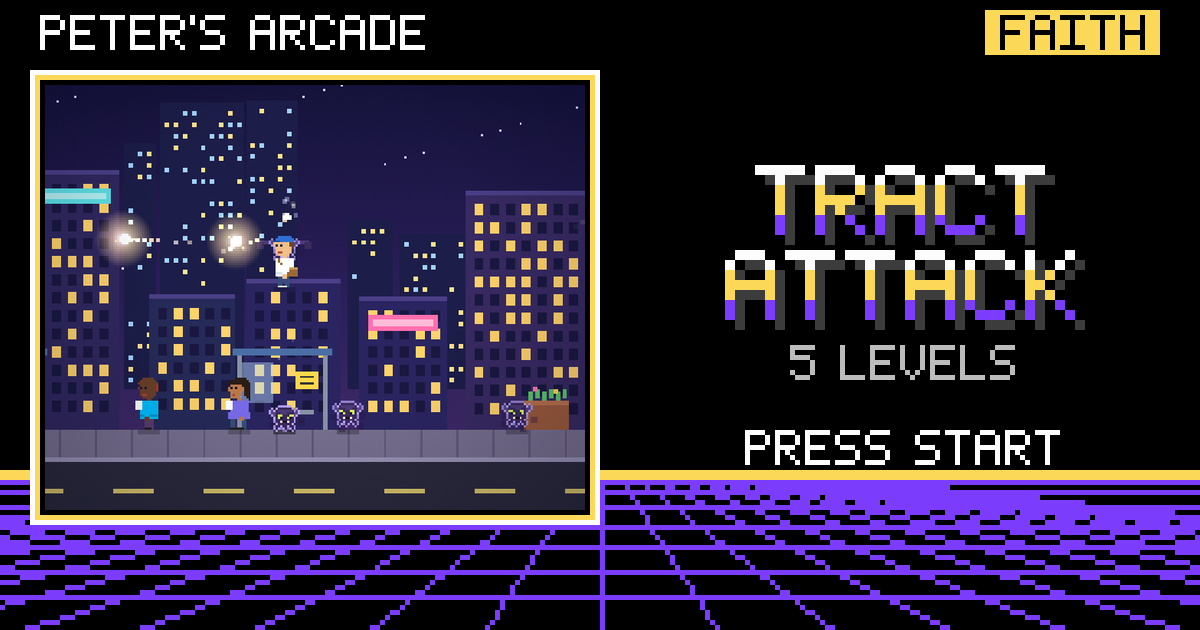
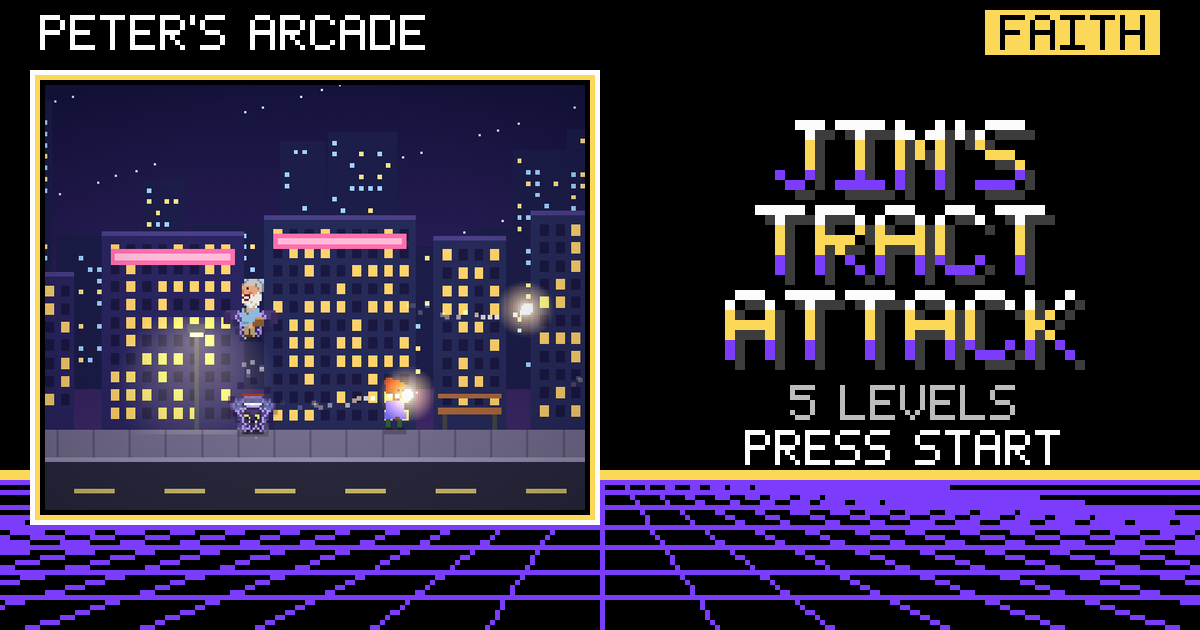
Jim's Tract Attack: Jim hero + portrait, rename, de-stacked bubbles/labels, top-down prayer aim-assist, new cover (sw v2)

diff --git a/index.html b/index.html
@@ -1,7 +1,7 @@
 <!DOCTYPE html><html lang="en"><head><meta charset="utf-8"><meta name="viewport" content="width=device-width,initial-scale=1,maximum-scale=1,user-scalable=no,viewport-fit=cover">
-<title>Tract Attack</title><!--og--><meta name="description" content="Hand out Bible tracts, send glowing prayers that turn little gloom goblins into light, and set gloomy people free. 5 levels of side-scrolling and top-down action from Book of Heaven Studios."><meta property="og:type" content="website"><meta property="og:site_name" content="Peter&#x27;s Arcade"><meta property="og:title" content="Tract Attack"><meta property="og:description" content="Hand out Bible tracts, send glowing prayers that turn little gloom goblins into light, and set gloomy people free. 5 levels of side-scrolling and top-down action from Book of Heaven Studios."><meta property="og:url" content="https://ploug76.github.io/tract-attack/"><meta property="og:image" content="https://ploug76.github.io/tract-attack/cover.png"><meta property="og:image:secure_url" content="https://ploug76.github.io/tract-attack/cover.png"><meta property="og:image:type" content="image/png"><meta property="og:image:width" content="1200"><meta property="og:image:height" content="630"><meta property="og:image:alt" content="Tract Attack game cover"><meta name="twitter:card" content="summary_large_image"><meta name="twitter:title" content="Tract Attack"><meta name="twitter:description" content="Hand out Bible tracts, send glowing prayers that turn little gloom goblins into light, and set gloomy people free. 5 levels of side-scrolling and top-down action from Book of Heaven Studios."><meta name="twitter:image" content="https://ploug76.github.io/tract-attack/cover.png"><!--/og-->
+<title>Jim&#x27;s Tract Attack</title><!--og--><meta name="description" content="Help Jim hand out Bible tracts, send glowing prayers that turn little gloom goblins into light, and set gloomy people free. 5 levels of side-scrolling and top-down action from Book of Heaven Studios."><meta property="og:type" content="website"><meta property="og:site_name" content="Peter&#x27;s Arcade"><meta property="og:title" content="Jim&#x27;s Tract Attack"><meta property="og:description" content="Help Jim hand out Bible tracts, send glowing prayers that turn little gloom goblins into light, and set gloomy people free. 5 levels of side-scrolling and top-down action from Book of Heaven Studios."><meta property="og:url" content="https://ploug76.github.io/tract-attack/"><meta property="og:image" content="https://ploug76.github.io/tract-attack/cover.png"><meta property="og:image:secure_url" content="https://ploug76.github.io/tract-attack/cover.png"><meta property="og:image:type" content="image/png"><meta property="og:image:width" content="1200"><meta property="og:image:height" content="630"><meta property="og:image:alt" content="Jim&#x27;s Tract Attack game cover with pixel-art Jim"><meta name="twitter:card" content="summary_large_image"><meta name="twitter:title" content="Jim&#x27;s Tract Attack"><meta name="twitter:description" content="Help Jim hand out Bible tracts, send glowing prayers that turn little gloom goblins into light, and set gloomy people free. 5 levels of side-scrolling and top-down action from Book of Heaven Studios."><meta name="twitter:image" content="https://ploug76.github.io/tract-attack/cover.png"><!--/og-->
 <meta name="theme-color" content="#120c2a"><link rel="manifest" href="manifest.json"><link rel="icon" href="icon-192.png"><link rel="apple-touch-icon" href="icon-192.png">
-<meta name="apple-mobile-web-app-capable" content="yes"><meta name="mobile-web-app-capable" content="yes"><meta name="apple-mobile-web-app-status-bar-style" content="black-translucent"><meta name="apple-mobile-web-app-title" content="Tract Attack">
+<meta name="apple-mobile-web-app-capable" content="yes"><meta name="mobile-web-app-capable" content="yes"><meta name="apple-mobile-web-app-status-bar-style" content="black-translucent"><meta name="apple-mobile-web-app-title" content="Jim&#x27;s Tracts">
 <style>html,body{margin:0;height:100%;overflow:hidden;background:#120c2a;touch-action:none;-webkit-user-select:none;user-select:none;-webkit-touch-callout:none;overscroll-behavior:none}
 canvas{position:fixed;left:0;top:0;display:block;touch-action:none;image-rendering:pixelated}#sp{position:fixed;visibility:hidden;pointer-events:none;padding:env(safe-area-inset-top) env(safe-area-inset-right) env(safe-area-inset-bottom) env(safe-area-inset-left)}</style><!--sample--><script>(()=>{try{const R=location.pathname.split('/')[1]||'',K='pa_sample:'+R,q=new URLSearchParams(location.search),v=q.get('sample');
 if(v==='0'||(!v&&/\/peters-arcade\//.test(document.referrer)))sessionStorage.removeItem(K);
@@ -10,7 +10,7 @@ const s=sessionStorage.getItem(K);window.__SAMPLE=s||null;if(!s)return;
 document.querySelectorAll('link[rel=manifest]').forEach(l=>l.remove());
 if('serviceWorker' in navigator){try{navigator.serviceWorker.register=()=>new Promise(()=>{})}catch(e){}}
 addEventListener('beforeinstallprompt',e=>{e.preventDefault();e.stopImmediatePropagation()},true);window.__ACS=[];['AudioContext','webkitAudioContext'].forEach(n=>{const O=window[n];if(!O)return;const W=function(...a){const c=new O(...a);window.__ACS.push(c);return c};W.prototype=O.prototype;try{Object.setPrototypeOf(W,O)}catch(e){}window[n]=W})}catch(e){}})()</script><!--/sample--></head><body>
-<canvas id="cv" aria-label="Tract Attack game"></canvas><div id="sp"></div>
+<canvas id="cv" aria-label="Jim&#x27;s Tract Attack game"></canvas><div id="sp"></div>
 <script>window.addEventListener('error',e=>{(window.__ERR=window.__ERR||[]).push(String(e.message))});
 // ===================== Tract Attack — core (canvas, layout, utils, audio) =====================
 'use strict';
@@ -100,46 +100,60 @@ function drawMap(map,pal,x,y,flip=false,alpha=1){const w=map[0].length;if(alpha!
   if(alpha!==1)o.globalAlpha=1}
 
 /* ============================================================================================
-   HERO SPRITE — PLACEHOLDER (swap me!)
-   Peter will send a photo. To swap the hero, replace HERO below (see README.md):
-   - head:  10x10 side view facing RIGHT.  headF: 10x10 front view.  headB: back of head.
-   - Each letter is a colour from HERO.pal ('.' = see-through). Body colours are shirt/shirt2/pants/shoes/bag.
-   Keep the 10x10 size and the hero will animate, flip and throw exactly the same.
+   HERO SPRITE — JIM (Jim's Tract Attack)
+   Drawn pixel likeness matching Jim in his other games (Jedi Jim, Jim's Bible Challenge): an older man with
+   slicked-back grey hair, a full white-grey beard, a big smile and rosy cheeks. Colours sampled from the Jedi Jim
+   pixel portrait (jim.png, J Woo pix method). No photo is used or shipped.
+   - head: 12x14 side view facing RIGHT.  headF: 12x14 front view.  headB: back of head. '.' = see-through.
+   - JIM_PORTRAIT (title/intro/win cards) = head crop of the Jedi Jim pixel portrait, 52x52 pixel art (base64 PNG).
+   - Street-ministry outfit: light chambray shirt, khaki pants, brown shoes, leather satchel of tracts.
    ============================================================================================ */
-const HERO={name:'Pete',
- head:['..cccccc..',
-       '.cccccccc.',
-       '.ccccccbbb',
-       '.hhsssssss',
-       '.hhssseses',
-       '.hsssssss.',
-       '..sssssss.',
-       '..ssssmms.',
-       '...sssss..',
-       '....ss....'],
- headF:['..cccccc..',
-        '.cccccccc.',
-        '.cbbbbbbc.',
-        '.hssssssh.',
-        '.seessees.',
-        '.ssssssss.',
-        '.ssssssss.',
-        '..ssmmss..',
-        '...ssss...',
-        '....ss....'],
- headB:['..cccccc..',
-        '.cccccccc.',
-        '.cccccccc.',
-        '.hhhhhhhh.',
-        '.hhhhhhhh.',
-        '.hhhhhhhh.',
-        '.shhhhhhs.',
-        '..ssssss..',
-        '...ssss...',
-        '....ss....'],
- pal:{c:'#2f6fd6',b:'#1d4a99',h:'#6b4423',s:'#f0c08a',e:'#1b1530',m:'#b4513c'},
- shirt:'#ffffff',shirt2:'#d6e2f0',pants:'#34507a',shoes:'#f4f4f4',bag:'#9a6a35',skin:'#f0c08a'};
-
+const HERO={name:'Jim',
+ head:['..gGGGGg....',
+       '.gGGGGGGg...',
+       'gGGgGGGGGg..',
+       'gGGgssssss..',
+       'gGgssssEss..',
+       'gGsssssssn..',
+       '.gwssrrssn..',
+       '.wwwswmmmw..',
+       '.wwwwwmttm..',
+       '.wwwwwwmmw..',
+       '..wwwWwwww..',
+       '..wWwwwwW...',
+       '...wWwwW....',
+       '....sss.....'],
+ headF:['...gGGGGg...',
+        '..gGGGGGGg..',
+        '.gGgGGgGGgg.',
+        '.gssssssssg.',
+        '.sEEssssEEs.',
+        '.srrsssssrr.',
+        '.wsssnnsssw.',
+        '.wwwmmmmwww.',
+        '.wwmttttmww.',
+        '.wwwmmmmwww.',
+        '..wwwwwwww..',
+        '..wWwwwwWw..',
+        '...wWwwWw...',
+        '....ssss....'],
+ headB:['...gGGGGg...',
+        '..gGGGGGGg..',
+        '.gGGgGGgGGg.',
+        '.gGGGgGGGGg.',
+        '.gGgGGGGgGg.',
+        '.gGGGGgGGGg.',
+        '.gGGGGGGGGg.',
+        '.wgGGGGGGgw.',
+        '..wggggggw..',
+        '..wwssssww..',
+        '...wssssw...',
+        '............',
+        '............',
+        '....ssss....'],
+ pal:{g:'#8d8a86',G:'#c9c6c0',s:'#e8a57c',r:'#e0705e',E:'#3a2418',n:'#c9805a',w:'#ece9e3',W:'#bdb8b0',m:'#6a2a22',t:'#ffffff'},
+ shirt:'#8fb8de',shirt2:'#6f97bf',pants:'#b49a6a',shoes:'#5a3820',bag:'#8b5a2b',skin:'#e8a57c'};
[1 lines of base64/hex data omitted]
 // generic head maps for passers-by (h hair, s skin, e eye, m mouth)
 const HEADS={
  short:{s:['..hhhhh...','.hhhhhhhh.','.hhhhhhhhh','.hhhsssss.','.hhssseses','.hsssssss.','..sssssss.','..ssssmms.','...sssss..','....ss....'],
@@ -169,14 +183,14 @@ function drawPerson(x,y,L,face,ph,act,dir){const kid=L.kid,leg=kid?3:5,tor=kid?6
   // torso (dress = flared)
   const ty=y-leg-tor;if(L.dress&&!L.hero){px(x-4,ty,8,tor,L.shirt);px(x-5,ty+tor-3,10,3,L.shirt)}else{px(x-4,ty,8,tor,L.shirt);px(x-4,ty+tor-2,8,1,L.shirt2)}
   if(L.hero){if(!front){o.fillStyle=HERO.bag;for(let i=0;i<tor;i++)o.fillRect(x+(face>0?2-i*0.7:-3+i*0.7)|0,ty+i,1,1);px(x-(face>0?6:-2),ty+tor-4,4,4,HERO.bag);px(x-(face>0?6:-2),ty+tor-4,4,1,'#c99a5a')}
-    else{px(x-1,ty+1,2,5,'#e8c34a');px(x-2,ty+2,4,1,'#e8c34a')}} // little gold cross on the tee (front)
+    else{o.fillStyle=HERO.bag;for(let i=0;i<tor;i++)o.fillRect(x-3+i,ty+i,1,1);px(x+2,ty+tor-3,4,4,HERO.bag);px(x+2,ty+tor-3,4,1,'#c99a5a');px(x-1,ty+2,1,1,'#fff');px(x-1,ty+5,1,1,'#fff')}} // satchel strap + shirt buttons (front)
   // arms
   if(front){px(x-6,ty+1+(sw>0?1:0),2,tor-2,L.shirt);px(x+4,ty+1+(sw<0?1:0),2,tor-2,L.shirt);px(x-6,ty+tor-1,2,2,L.skin);px(x+4,ty+tor-1,2,2,L.skin)}
   else if(act>0){px(x+(face>0?3:-9),ty+1,6,2,L.shirt);px(x+(face>0?9:-11),ty+1,2,2,L.skin);if(L.hero)px(x+(face>0?9:-12),ty-2,3,4,'#fff')}
   else{px(x-1-sw*face*0.6,ty+1,2,tor-2,L.shirt);px(x-1-sw*face*0.6,ty+tor-1,2,2,L.skin)}
   // head
   const hx=x-5,hy=top;
-  if(L.hero){const m=dir==='u'?HERO.headB:dir==='d'?HERO.headF:HERO.head;drawMap(m,HERO.pal,hx,hy,!front&&face<0)}
+  if(L.hero){const m=dir==='u'?HERO.headB:dir==='d'?HERO.headF:HERO.head,mw=m[0].length,mh=m.length;drawMap(m,HERO.pal,x-Math.floor(mw/2)+(front?0:(face>0?0:0)),y-leg-tor-mh+1,!front&&face<0)}
   else{const H=HEADS[L.style]||HEADS.short;let m=dir==='d'?H.f:H.s;if(dir==='u')m=H.f.map((r,i)=>i<8?r.replace(/[sem]/g,'h'):r);drawMap(m,headPal(L),hx,hy,!front&&face<0)}
 }
 // goblin: small original shadow imp (indigo, big lantern eyes, pointy ears, wispy bottom). No horns, no tail, no pitchfork.
@@ -359,8 +373,12 @@ function throwTract(){if(H.cdB>0)return;H.cdB=0.32;H.act=0.25;SFX.tract();ST.giv
   else shots.push({k:'tract',x:H.x+d.x*6,y:H.y-8+d.y*4,vx:d.x*140,vy:d.y*140,g:0,life:0.75,ph:0})}
 function pray(){if(H.cdA>0)return;H.cdA=0.3;SFX.pray();const d=dirVec();
   if(W.type==='side')shots.push({k:'pray',x:H.x+H.face*8,y:H.y-14,vx:H.face*165,vy:0,life:1.05,ph:0,y0:H.y-14});
-  else shots.push({k:'pray',x:H.x+d.x*6,y:H.y-9+d.y*4,vx:d.x*160,vy:d.y*160,life:0.95,ph:0});
+  else{let vx=d.x,vy=d.y;const t0=aimAssist(d);if(t0){const ax=t0.x-H.x,ay=(t0.y-(t0.k==='boss'?14:t0.gl?0:6))-(H.y-9),n=Math.hypot(ax,ay)||1;vx=ax/n;vy=ay/n}
+    shots.push({k:'pray',x:H.x+vx*6,y:H.y-9+vy*4,vx:vx*160,vy:vy*160,life:0.95,ph:0,aim:!!t0})}
   part(H.x,H.y-22,6,['#fff6c0','#ffe08a','#fff'],{sp:20,up:-25,add:true,life:0.6})}
+// top-down aim assist: lock onto the nearest goblin / gloomy person / gloom pit within a 40° cone (each side) and 120 px
+function aimAssist(d){let best=null,bd=1e9;const c=[...gobs.filter(b=>!b.dying),...W.people.filter(p=>p.st==='trouble'),...W.gloom.filter(p=>p.alive).map(p=>({x:p.x,y:p.y,gl:1}))];
+  for(const f of c){const ax=f.x-H.x,ay=f.y-H.y,dist=Math.hypot(ax,ay);if(dist>120||dist<1)continue;const cos=(ax*d.x+ay*d.y)/dist;if(cos<0.766)continue;const sc=dist*(2-cos);if(sc<bd){bd=sc;best=f}}return best}
 function dirVec(){if(W.type==='side')return{x:H.face,y:0};return{x:H.dir==='l'?-1:H.dir==='r'?1:0,y:H.dir==='u'?-1:H.dir==='d'?1:0}}
 function give(p){p.got=true;p.face=H.x<p.x?-1:1;const L=Lv();
   let turn=Math.random()<L.turn;if(level===1&&ST.gives>=1&&!tutor.turned)turn=true; // first level always shows one gloomy turn as a lesson
@@ -499,7 +517,7 @@ function worldToScreen(x,y){const F=LY.field;return [F.x+(x-camX)*S,F.y+(y-camY)
 function padPath(cx,cy,a){const h=a*1.5,w=a/2;g.beginPath();g.moveTo(cx-w,cy-h);g.lineTo(cx+w,cy-h);g.lineTo(cx+w,cy-w);g.lineTo(cx+h,cy-w);g.lineTo(cx+h,cy+w);g.lineTo(cx+w,cy+w);g.lineTo(cx+w,cy+h);g.lineTo(cx-w,cy+h);g.lineTo(cx-w,cy+w);g.lineTo(cx-h,cy+w);g.lineTo(cx-h,cy-w);g.lineTo(cx-w,cy-w);g.closePath()}
 function drawController(){const C=LY.ctrl,P=LY.pad,a=P.a,side=W&&W.type==='side';
   if(C){rr(C.x+6,C.y+4,C.w-12,C.h-10,22);g.fillStyle='#b9b4c4';g.fill();rr(C.x+14,C.y+12,C.w-28,C.h-26,16);g.fillStyle='#2b2733';g.fill();
-    txt('TRACT ATTACK',C.x+C.w-30,C.y+32,18,'#ffcf4a','right',{st:0})}
+    txt("JIM'S TRACT ATTACK",C.x+C.w-30,C.y+32,fitSize("JIM'S TRACT ATTACK",C.w*0.5,18,16),'#ffcf4a','right',{st:0})}
   g.save();g.shadowColor='rgba(0,0,0,.5)';g.shadowOffsetY=4;padPath(P.cx,P.cy,a);g.fillStyle='#121016';g.fill();g.restore();
   const lit={l:held.l,r:held.r,u:held.u,d:held.d};const arr={u:[0,-1],d:[0,1],l:[-1,0],r:[1,0]};
   for(const k in arr){const [ux,uy]=arr[k],x=P.cx+ux*a,y=P.cy+uy*a;if(lit[k]){g.fillStyle='#e8c34a';g.fillRect(x-a/2+3,y-a/2+3,a-6,a-6)}
@@ -519,10 +537,13 @@ function drawHUD(){const T=LY.top,L=LY.land;g.fillStyle='#120c2a';g.fillRect(0,0
 function drawTopBtns(){for(const b of LY.tb){if(b.k==='pause'&&state!=='play')continue;const lbl=b.k==='help'?'?':b.k==='mute'?(muted?'🔇':'🔊'):(paused?'▶':'❚❚');
   rr(b.x,b.y,b.w,b.h,22);g.fillStyle=pressBtn==='tb_'+b.k?'#4a3f88':'#2a2160';g.fill();g.lineWidth=2;g.strokeStyle='#fff';g.stroke();txt(lbl,b.x+b.w/2,b.y+b.h/2+1,b.k==='help'?22:18,'#fff','center',{st:0});
   menuBtns.push({id:'tb_'+b.k,x:b.x,y:b.y,w:b.w,h:b.h,fn:()=>{if(b.k==='help')helpOpen=!helpOpen;else if(b.k==='mute')setMute(!muted);else paused=!paused}})}}
-function drawFloats(){const F=LY.field;g.save();g.beginPath();g.rect(F.x,F.y,F.w,F.h);g.clip();
-  for(const f of floats){const [x,y]=worldToScreen(f.x,f.y);g.globalAlpha=Math.min(1,f.life*2);txt(f.s,x,y,18,f.col)}g.globalAlpha=1;
-  for(const p of W.people){if(p.bubT>0&&p.bub){const [x,y]=worldToScreen(p.x,p.y-(p.look.kid?30:36));g.font='bold 16px '+FONT;const w=g.measureText(p.bub).width+16;const bx=clamp(x-w/2,F.x+4,F.x+F.w-w-4);
-    rr(bx,y-30,w,28,10);g.fillStyle=p.st==='turning'||p.st==='trouble'?'#3b2a5c':'#fff';g.fill();txt(p.bub,bx+w/2,y-16,16,p.st==='turning'?'#fff':'#2a1840','center',{st:0})}}
+function drawFloats(){const F=LY.field;g.save();g.beginPath();g.rect(F.x,F.y,F.w,F.h);g.clip();const placed=[];
+  const fit=(x,y,w,h)=>{let yy=y;for(let k=0;k<12;k++){const hit=placed.find(r=>x<r.x+r.w&&x+w>r.x&&yy<r.y+r.h&&yy+h>r.y);if(!hit)break;yy=hit.y-h-3}placed.push({x,y:yy,w,h});return yy};
+  const bs=W.people.filter(p=>p.bubT>0&&p.bub).sort((a,b)=>b.y-a.y||a.x-b.x);
+  for(const p of bs){const [x,y]=worldToScreen(p.x,p.y-(p.look.kid?30:36));g.font='bold 16px '+FONT;const w=g.measureText(p.bub).width+16;const bx=clamp(x-w/2,F.x+4,F.x+F.w-w-4);const by=fit(bx,y-30,w,28);
+    g.globalAlpha=Math.min(1,p.bubT*3);rr(bx,by,w,28,10);g.fillStyle=p.st==='turning'||p.st==='trouble'?'#3b2a5c':'#fff';g.fill();txt(p.bub,bx+w/2,by+14,16,p.st==='turning'?'#fff':'#2a1840','center',{st:0});g.globalAlpha=1}
+  for(const f of floats.slice().sort((a,b)=>b.life-a.life)){const [x,y]=worldToScreen(f.x,f.y);g.font='bold 18px '+FONT;const w=g.measureText(f.s).width+6;const fx=clamp(x-w/2,F.x+2,F.x+F.w-w-2);const fy=fit(fx,y-11,w,22);
+    g.globalAlpha=Math.min(1,f.life*2);txt(f.s,fx+w/2,fy+11,18,f.col)}g.globalAlpha=1;
   if(toastT>0){const lines=wrap(toastMsg,F.w-40,18);const h=lines.length*24+16,y=F.y+12;g.globalAlpha=Math.min(1,toastT*3);rr(F.x+12,y,F.w-24,h,12);g.fillStyle='rgba(20,12,50,.88)';g.fill();g.strokeStyle='#ffcf4a';g.lineWidth=2;g.stroke();lines.forEach((l,i)=>txt(l,F.x+F.w/2,y+20+i*24,18,'#fff'));g.globalAlpha=1}
   g.restore()}
 // ---------- screens (title / intro / pause / clear / over / win / help / levels)
@@ -536,15 +557,21 @@ function drawTitle(){const c=centerCol(),F=c.F;
   button('how',c.x+hw+8,by+bh+gap,hw,bh,'❓ HOW TO','#7a3fbf',()=>{helpOpen=true},18);
   button('easy',c.x,by+2*(bh+gap),hw,bh,EASY?'😊 GENTLE':'⚔ NORMAL','#b5523b',()=>{EASY=!EASY;localStorage.setItem('ta_easy',EASY?'1':'0')},18);
   button('music',c.x+hw+8,by+2*(bh+gap),hw,bh,musicOn?'🎵 MUSIC ON':'🎵 MUSIC OFF','#45405e',()=>{musicOn=!musicOn;localStorage.setItem('ta_music',musicOn?'1':'0')},18);
-  const top=F.y+6,avail=by-top-8;let sz=Math.min(58,F.w/6.2,(avail-44)/2.05);
-  if(sz>=22){txt('TRACT',CW/2,top+sz*0.6,sz,'#ffe14a','center',{lw:Math.max(5,sz/7),st:'#3a1d00'});txt('ATTACK!',CW/2,top+sz*1.62,sz,'#ffffff','center',{lw:Math.max(5,sz/7),st:'#3b2a5c'});
-    const y2=top+sz*2.2+12;if(y2+10<by-28)txt('A Book of Heaven Studios game',CW/2,y2,16,'#d9ccff');txt('BEST '+best,CW/2,Math.max(y2+24,by-16),17,'#ffe14a','center',{f:PIX})}
-  else{sz=fitSize('TRACT ATTACK!',c.w,Math.max(20,Math.min(40,avail-26)),20);txt('TRACT ATTACK!',CW/2,top+sz*0.6,sz,'#ffe14a','center',{lw:5,st:'#3a1d00'});if(avail-sz*1.2>22)txt('BEST '+best,CW/2,by-16,17,'#ffe14a','center',{f:PIX})}}
+  const top=F.y+6,avail=by-top-8,wide=F.w>=520;
+  if(wide){const R=Math.min(62,(avail-12)/2);let sz=Math.min(54,(avail-30)/2.7,(F.w-2*R-60)/5.2);if(R>=26&&sz>=20){const tw=sz*4.4,bx=CW/2-(2*R+18+tw)/2;drawPortrait(bx+R,top+avail/2-6,R);const tx=bx+2*R+18+tw/2;titleText(tx,top+avail/2-sz*1.35-6,sz);return}}
+  let R=Math.min(58,avail*0.2),sz=Math.min(54,F.w/6.2,(avail-2*R-14-24)/2.7);
+  if(R>=26&&sz>=22){drawPortrait(CW/2,top+R+2,R);titleText(CW/2,top+2*R+12,sz)}
+  else{sz=Math.min(54,F.w/6.2,(avail-24)/2.7);if(sz>=20)titleText(CW/2,top+2,sz);else{sz=fitSize("JIM'S TRACT ATTACK!",c.w,Math.max(18,Math.min(36,avail-26)),18);txt("JIM'S TRACT ATTACK!",CW/2,top+sz*0.6,sz,'#ffe14a','center',{lw:5,st:'#3a1d00'})}}}
+function titleText(cx,y,sz){txt("JIM'S",cx,y+sz*0.3,Math.round(sz*0.55),'#9ff7ff','center',{lw:5,st:'#12324a'});
+  txt('TRACT',cx,y+sz*1.1,sz,'#ffe14a','center',{lw:Math.max(5,sz/7),st:'#3a1d00'});txt('ATTACK!',cx,y+sz*2.1,sz,'#ffffff','center',{lw:Math.max(5,sz/7),st:'#3b2a5c'});
+  txt('BEST '+best,cx,y+sz*2.1+sz*0.5+14,17,'#ffe14a','center',{f:PIX})}
+function drawPortrait(cx,cy,R){g.save();g.beginPath();g.arc(cx,cy,R,0,7);g.fillStyle='#6fb6e8';g.fill();g.clip();if(JIM_PORTRAIT.complete&&JIM_PORTRAIT.naturalWidth){g.imageSmoothingEnabled=false;g.drawImage(JIM_PORTRAIT,cx-R*1.04,cy-R*1.0,R*2.08,R*2.08)}g.restore();
+  g.lineWidth=4;g.strokeStyle='#ffcf4a';g.beginPath();g.arc(cx,cy,R,0,7);g.stroke()}
 function drawLevels(){const c=centerCol(),F=c.F,bh=50,gap=9,h=(bh+gap)*(NL+1)+70,y0=Math.max(F.y+8,F.y+(F.h-h)/2);panel(c.x-8,y0,c.w+16,h);txt('PICK A LEVEL',CW/2,y0+28,22,'#ffe14a');
   for(let i=1;i<=NL;i++){const L=LEVELS[i-1],op=i<=unlocked;button('lv'+i,c.x+4,y0+52+(i-1)*(bh+gap),c.w-8,bh,(op?'':'🔒 ')+i+'. '+L.n+(L.type==='top'?' (top-down)':''),op?(L.type==='top'?'#2f8f8f':'#3a5fcf'):'#555',()=>{if(op){levelPick=false;if(i===1)score=0;newGame(i)}else{toast('Finish level '+(i-1)+' to open this one!');SFX.no()}},18)}
   button('back',c.x+4,y0+52+NL*(bh+gap),c.w-8,bh,'◀ BACK','#45405e',()=>{levelPick=false})}
 function drawIntro(){const c=centerCol(),F=c.F,L=Lv();const lines=wrap(L.tip,c.w-24,17);const h=168+lines.length*23,y0=F.y+Math.max(8,(F.h-h)/2);panel(c.x-8,y0,c.w+16,h);
-  txt('LEVEL '+level+' of '+NL,CW/2,y0+26,18,'#c9b8ff');txt(L.n,CW/2,y0+56,fitSize(L.n,c.w-10,26,18),'#ffe14a');
+  drawPortrait(c.x+24,y0+30,22);txt('LEVEL '+level+' of '+NL,CW/2,y0+26,18,'#c9b8ff');txt(L.n,CW/2,y0+56,fitSize(L.n,c.w-10,26,18),'#ffe14a');
   txt((L.type==='side'?'Side-scrolling':'Top-down')+' · Hand out '+L.quota+' tracts',CW/2,y0+86,fitSize('Side-scrolling · Hand out 10 tracts',c.w-10,17),'#fff');
   lines.forEach((l,i)=>txt(l,CW/2,y0+114+i*23,17,'#d9f7ff'));
   button('start',c.x+20,y0+h-62,c.w-40,50,'START ▶','#1f9d55',()=>{state='play';toast(L.type==='side'?'Hand out tracts with B · Pray with A':'Top-down: walk any way · B tract · A pray',2.4)},22);menuBtns[menuBtns.length-1].primary=1}
@@ -561,11 +588,11 @@ function drawOver(){const c=centerCol(),F=c.F,h=250,y0=F.y+Math.max(6,(F.h-h)/2)
   const l=wrap("Don't give up! Every tract you gave still counts.",c.w-10,17);l.forEach((s,i)=>txt(s,CW/2,y0+64+i*22,17,'#fff'));txt('SCORE '+score,CW/2,y0+64+l.length*22+14,20,'#ffe14a','center',{f:PIX});
   button('retry',c.x+10,y0+h-104,c.w-20,48,'↻ TRY LEVEL '+level+' AGAIN','#1f9d55',()=>{score=levelStartScore;startLevel(level)},19);menuBtns[menuBtns.length-1].primary=1;
   button('ttl2',c.x+10,y0+h-50,c.w-20,42,'🏠 TITLE','#45405e',()=>{state='title'},18)}
-function drawWin(){const c=centerCol(),F=c.F,h=Math.min(F.h-10,380),y0=F.y+Math.max(4,(F.h-h)/2);panel(c.x-8,y0,c.w+16,h);txt('MISSION COMPLETE!',CW/2,y0+32,fitSize('MISSION COMPLETE!',c.w-10,27),'#7dffb0');
+function drawWin(){const c=centerCol(),F=c.F,h=Math.min(F.h-10,380),y0=F.y+Math.max(4,(F.h-h)/2);panel(c.x-8,y0,c.w+16,h);txt('WELL DONE, JIM!',CW/2,y0+32,fitSize('WELL DONE, JIM!',c.w-10,27),'#7dffb0');
   const l=wrap('"How beautiful are the feet of them that preach the gospel of peace" (Romans 10:15)',c.w-16,16);l.forEach((s,i)=>txt(s,CW/2,y0+62+i*21,16,'#d9f7ff'));
   const yy=y0+70+l.length*21;tally(yy,c);txt('FINAL SCORE '+score,CW/2,y0+h-82,21,'#ffe14a','center',{f:PIX});
   button('again',c.x+10,y0+h-62,c.w/2-15,48,'↻ AGAIN','#1f9d55',()=>{score=0;newGame(1)},19);menuBtns[menuBtns.length-1].primary=1;button('ttl3',c.x+c.w/2+5,y0+h-62,c.w/2-15,48,'🏠 TITLE','#45405e',()=>{state='title'},19)}
-const HELP=[['GOAL','Walk around, hand out Bible tracts to people, and pray away the little gloom goblins. Hand out enough tracts, then go to the church to finish the level.'],
+const HELP=[['GOAL','Help Jim walk around, hand out Bible tracts to people, and pray away the little gloom goblins. Hand out enough tracts, then go to the church to finish the level.'],
  ['D-PAD','◀ ▶ walk. Side levels: ▲ jumps, ▼ drops off a bench. Top-down levels: walk any way.'],
  ['B = TRACT','Hands a tract to someone close, or tosses one to them. Happy people give +100.'],
  ['A = PRAY','Sends a glowing prayer of light. Goblins dissolve into light (+50).'],
@@ -643,7 +670,7 @@ const _upd=update;update=function(dt){if(window.__QA&&__QA.auto&&state==='play'&
 #dockHint{position:fixed;z-index:61;display:none;box-sizing:border-box;background:rgba(10,10,20,.92);color:#fff;border:2px solid #fff;border-radius:12px;font:13px/1.3 system-ui,-apple-system,sans-serif;padding:7px 36px 7px 10px;top:0;left:0}#dockHint.inl{position:relative;margin:4px auto;max-width:320px}
 #dockHintX{position:absolute;right:3px;top:50%;margin-top:-15px;width:30px;height:30px;border-radius:15px;border:0;background:#fff;color:#000;font:bold 15px sans-serif;padding:0;cursor:pointer}
 #shareToast{position:fixed;z-index:62;display:none;box-sizing:border-box;height:34px;border-radius:17px;border:2px solid #fff;background:#1f9d55;color:#fff;font:bold 13px/30px system-ui,sans-serif;text-align:center;white-space:nowrap;pointer-events:none;overflow:hidden}
-#inst,#ios,#ioshint{display:none!important}#dkProbe{position:fixed;visibility:hidden;pointer-events:none;padding:env(safe-area-inset-top) env(safe-area-inset-right) env(safe-area-inset-bottom) env(safe-area-inset-left)}.dk.smp{position:relative;opacity:.62;text-decoration:line-through;text-decoration-thickness:2px;text-decoration-color:#ff5050}.dk.smp:after{content:'';position:absolute;left:5px;right:5px;top:50%;height:3px;margin-top:-1px;background:#ff3b3b;border-radius:2px;transform:rotate(-16deg);pointer-events:none}#dockHint.smpc{padding:9px 38px 10px 11px;font-size:14px}#dockHint.smpc b{color:#ffd84a}#smpBuy{display:block;max-width:100%;white-space:nowrap;overflow:hidden;text-overflow:ellipsis;margin:8px 0 0;height:34px;border-radius:17px;border:2px solid #fff;background:#e0439a;color:#fff;font:bold 14px/30px system-ui,-apple-system,sans-serif;padding:0 14px;cursor:pointer;touch-action:manipulation}#smpBuy.off{background:#444;opacity:.85;cursor:default}#smpBack{position:fixed;inset:0;z-index:59;display:none;background:rgba(0,0,0,.55)}</style><div id="dock" role="toolbar" aria-label="Share and install"><button id="shareBtn" class="dk" type="button" aria-label="Share this game">🔗 Share</button><button id="instBtn" class="dk" type="button" aria-label="Install this game as an app">📲 Install</button></div><div id="dockHint" role="note">📲 On iPhone/iPad: tap Share <b>⬆</b> then “Add to Home Screen”.<button id="dockHintX" type="button" aria-label="Dismiss tip">✕</button></div><div id="shareToast" role="status" aria-live="polite">Link copied!</div><div id="dkProbe"></div><div id="smpBack"></div><script>(()=>{const SH={"title": "Tract Attack", "text": "Play Tract Attack — hand out Bible tracts and pray away the gloom goblins! A free family-friendly game from Book of Heaven Studios.", "url": "https://ploug76.github.io/tract-attack/"},ALLOW=[],INLINE=null,SHTXT="🔗 Share",SMP=window.__SAMPLE||null,PAYI=({"bhs": "https://ko-fi.com/bookofheavenstudios/commissions?commissionAlias=5df889530a", "589": "https://ko-fi.com/five8nine/commissions?commissionAlias=5c81b9373a"})[SMP]||'',PRICE="$1.99";const $=i=>document.getElementById(i);
+#inst,#ios,#ioshint{display:none!important}#dkProbe{position:fixed;visibility:hidden;pointer-events:none;padding:env(safe-area-inset-top) env(safe-area-inset-right) env(safe-area-inset-bottom) env(safe-area-inset-left)}.dk.smp{position:relative;opacity:.62;text-decoration:line-through;text-decoration-thickness:2px;text-decoration-color:#ff5050}.dk.smp:after{content:'';position:absolute;left:5px;right:5px;top:50%;height:3px;margin-top:-1px;background:#ff3b3b;border-radius:2px;transform:rotate(-16deg);pointer-events:none}#dockHint.smpc{padding:9px 38px 10px 11px;font-size:14px}#dockHint.smpc b{color:#ffd84a}#smpBuy{display:block;max-width:100%;white-space:nowrap;overflow:hidden;text-overflow:ellipsis;margin:8px 0 0;height:34px;border-radius:17px;border:2px solid #fff;background:#e0439a;color:#fff;font:bold 14px/30px system-ui,-apple-system,sans-serif;padding:0 14px;cursor:pointer;touch-action:manipulation}#smpBuy.off{background:#444;opacity:.85;cursor:default}#smpBack{position:fixed;inset:0;z-index:59;display:none;background:rgba(0,0,0,.55)}</style><div id="dock" role="toolbar" aria-label="Share and install"><button id="shareBtn" class="dk" type="button" aria-label="Share this game">🔗 Share</button><button id="instBtn" class="dk" type="button" aria-label="Install this game as an app">📲 Install</button></div><div id="dockHint" role="note">📲 On iPhone/iPad: tap Share <b>⬆</b> then “Add to Home Screen”.<button id="dockHintX" type="button" aria-label="Dismiss tip">✕</button></div><div id="shareToast" role="status" aria-live="polite">Link copied!</div><div id="dkProbe"></div><div id="smpBack"></div><script>(()=>{const SH={"title": "Jim's Tract Attack", "text": "Play Jim's Tract Attack — help Jim hand out Bible tracts and pray away the gloom goblins! A free family-friendly game from Book of Heaven Studios.", "url": "https://ploug76.github.io/tract-attack/"},ALLOW=[],INLINE=null,SHTXT="🔗 Share",SMP=window.__SAMPLE||null,PAYI=({"bhs": "https://ko-fi.com/bookofheavenstudios/commissions?commissionAlias=5df889530a", "589": "https://ko-fi.com/five8nine/commissions?commissionAlias=5c81b9373a"})[SMP]||'',PRICE="$1.99";const $=i=>document.getElementById(i);
 if(SMP){SH.url=SH.url+'?sample='+encodeURIComponent(SMP);const h0=$('dockHint');h0.classList.add('smpc');h0.setAttribute('role','dialog');h0.innerHTML='<b>Sample version</b> — install the full game on your phone for '+PRICE+'<button id="smpBuy" type="button"'+(PAYI?'':' class="off" aria-disabled="true"')+'>'+(PAYI?'💳 Buy '+PRICE:'Checkout coming soon')+'</button><button id="dockHintX" type="button" aria-label="Close">✕</button>'}
 if(!SMP)SH.url=SH.url+'?sample='+"bhs";const bk=$('smpBack'),dock=$('dock'),sb=$('shareBtn'),ib=$('instBtn'),hint=$('dockHint'),hx=$('dockHintX'),toastEl=$('shareToast'),probe=$('dkProbe');
 if(INLINE){const a=document.querySelector(INLINE);if(a){a.after(dock);dock.after(hint)}dock.classList.add('inl');hint.classList.add('inl')}
@@ -886,4 +913,4 @@ async function postNow(){if(!G)return;const F=x=>x==null?()=>undefined:typeof x=
   return show()}
 const api={init,postNow,syncBest,localBest,gameOver,submitQuiet,watch,show,close,isOpen:()=>open,get backend(){return REMOTE?REMOTE.name:'local'},_t:{cleanName,nameError,fmt,boardId,pid,keyOf}};
 window.PALB=api})();
-</script><script>PALB.init({"game": "tract-attack", "title": "Tract Attack", "order": "desc", "unit": "pts", "min": 0, "max": 1000000, "boards": null, "watch": [{"when": "(state==='over'||state==='win')&&!window.__QA", "score": "score", "valid": "score>0"}], "overTitle": "🙏 MISSION REPORT"})</script><!--/lb--></body></html>
+</script><script>PALB.init({"game": "tract-attack", "title": "Jim's Tract Attack", "order": "desc", "unit": "pts", "min": 0, "max": 1000000, "boards": null, "watch": [{"when": "(state==='over'||state==='win')&&!window.__QA", "score": "score", "valid": "score>0"}], "overTitle": "🙏 MISSION REPORT"})</script><!--/lb--></body></html>

diff --git a/sw.js b/sw.js
@@ -1,4 +1,4 @@
-const P='tract-attack-',V=P+'v1',OLD=[],FILES=['./','index.html','manifest.json','icon-192.png','icon-512.png'];
+const P='tract-attack-',V=P+'v2',OLD=[],FILES=['./','index.html','manifest.json','icon-192.png','icon-512.png'];
 self.addEventListener('install',e=>{e.waitUntil(caches.open(V).then(c=>c.addAll(FILES)));self.skipWaiting()});
 self.addEventListener('activate',e=>{e.waitUntil(caches.keys().then(k=>Promise.all(k.filter(n=>n!=V&&(n.startsWith(P)||OLD.some(o=>n.startsWith(o)))).map(n=>caches.delete(n)))).then(()=>self.clients.claim()))});
 self.addEventListener('fetch',e=>{if(e.request.method!='GET')return;e.respondWith(fetch(e.request).then(r=>{if(r.ok){const cp=r.clone();caches.open(V).then(c=>c.put(e.request,cp))}return r}).catch(()=>caches.open(V).then(c=>c.match(e.request,{ignoreSearch:true}).then(r=>r||(e.request.mode=='navigate'?c.match('./'):undefined)))))});
